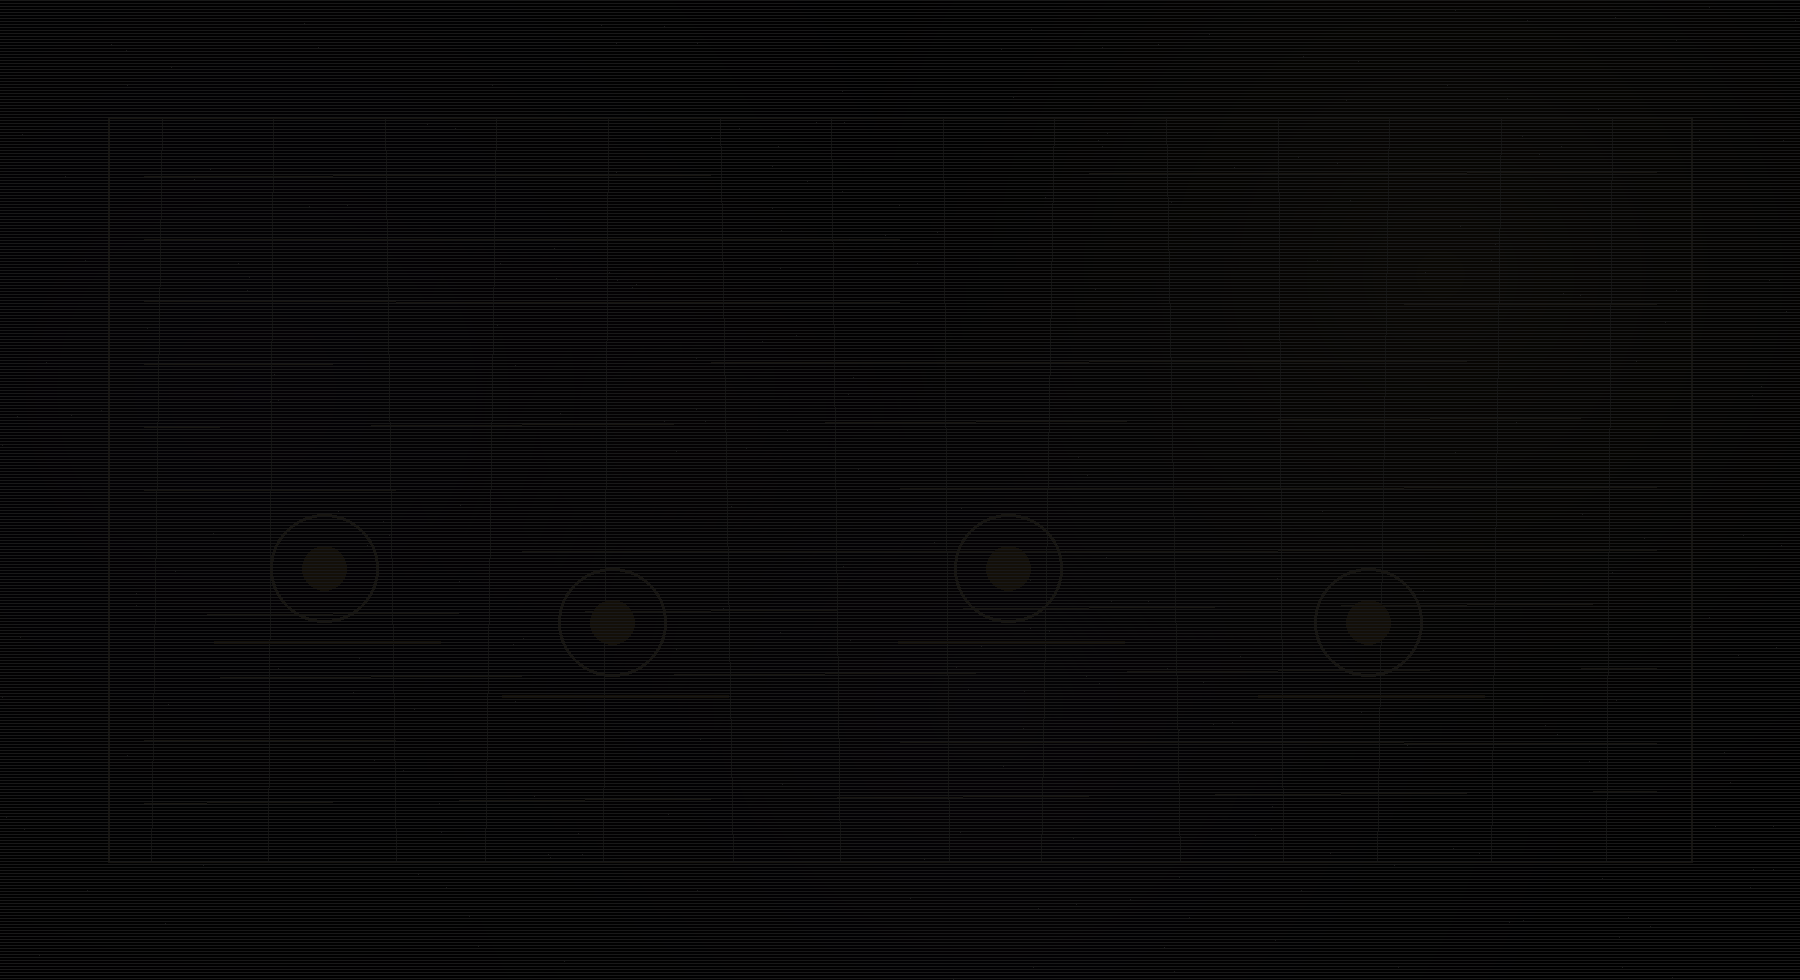
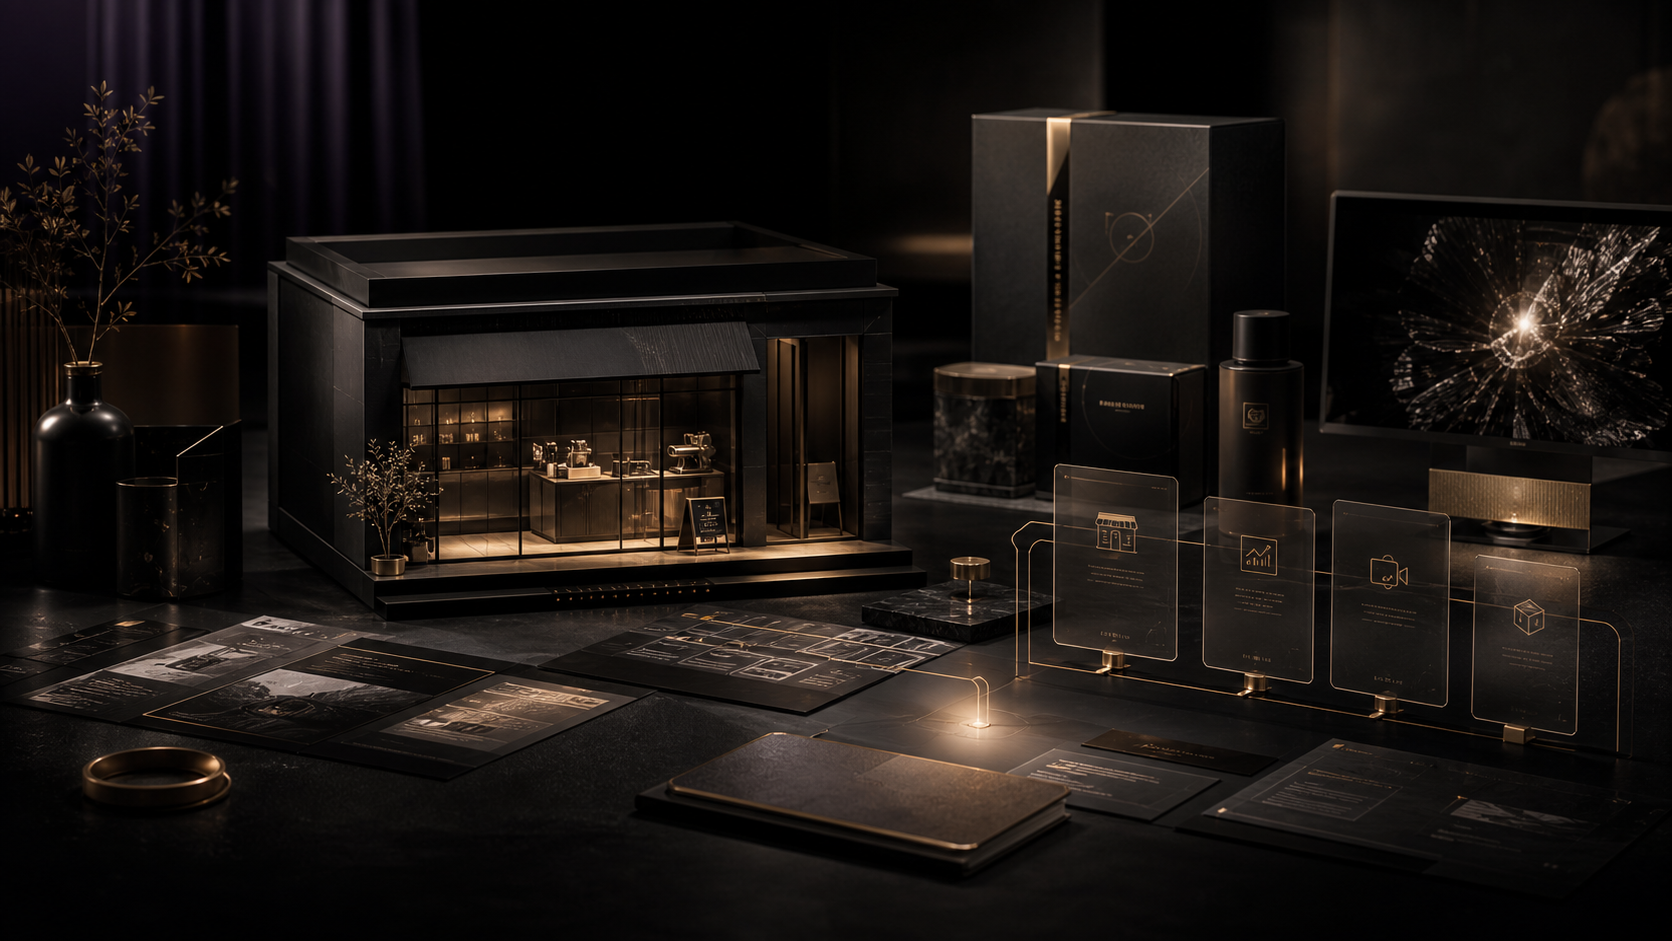
Refine service visual and work headline

diff --git a/index.html b/index.html
@@ -105,7 +105,7 @@
       <section id="work" class="work section-dark" aria-labelledby="work-title">
         <div class="section-kicker">Studio Signals / 能力场景</div>
         <div class="section-heading split">
-          <h2 id="work-title" class="zh-title">AI 进入真实业务。</h2>
+          <h2 id="work-title" class="zh-title">AI 落地真实业务。</h2>
           <p>
             品牌、内容、视频和工作流最终都要回到获客、成交、提效和团队执行。
           </p>